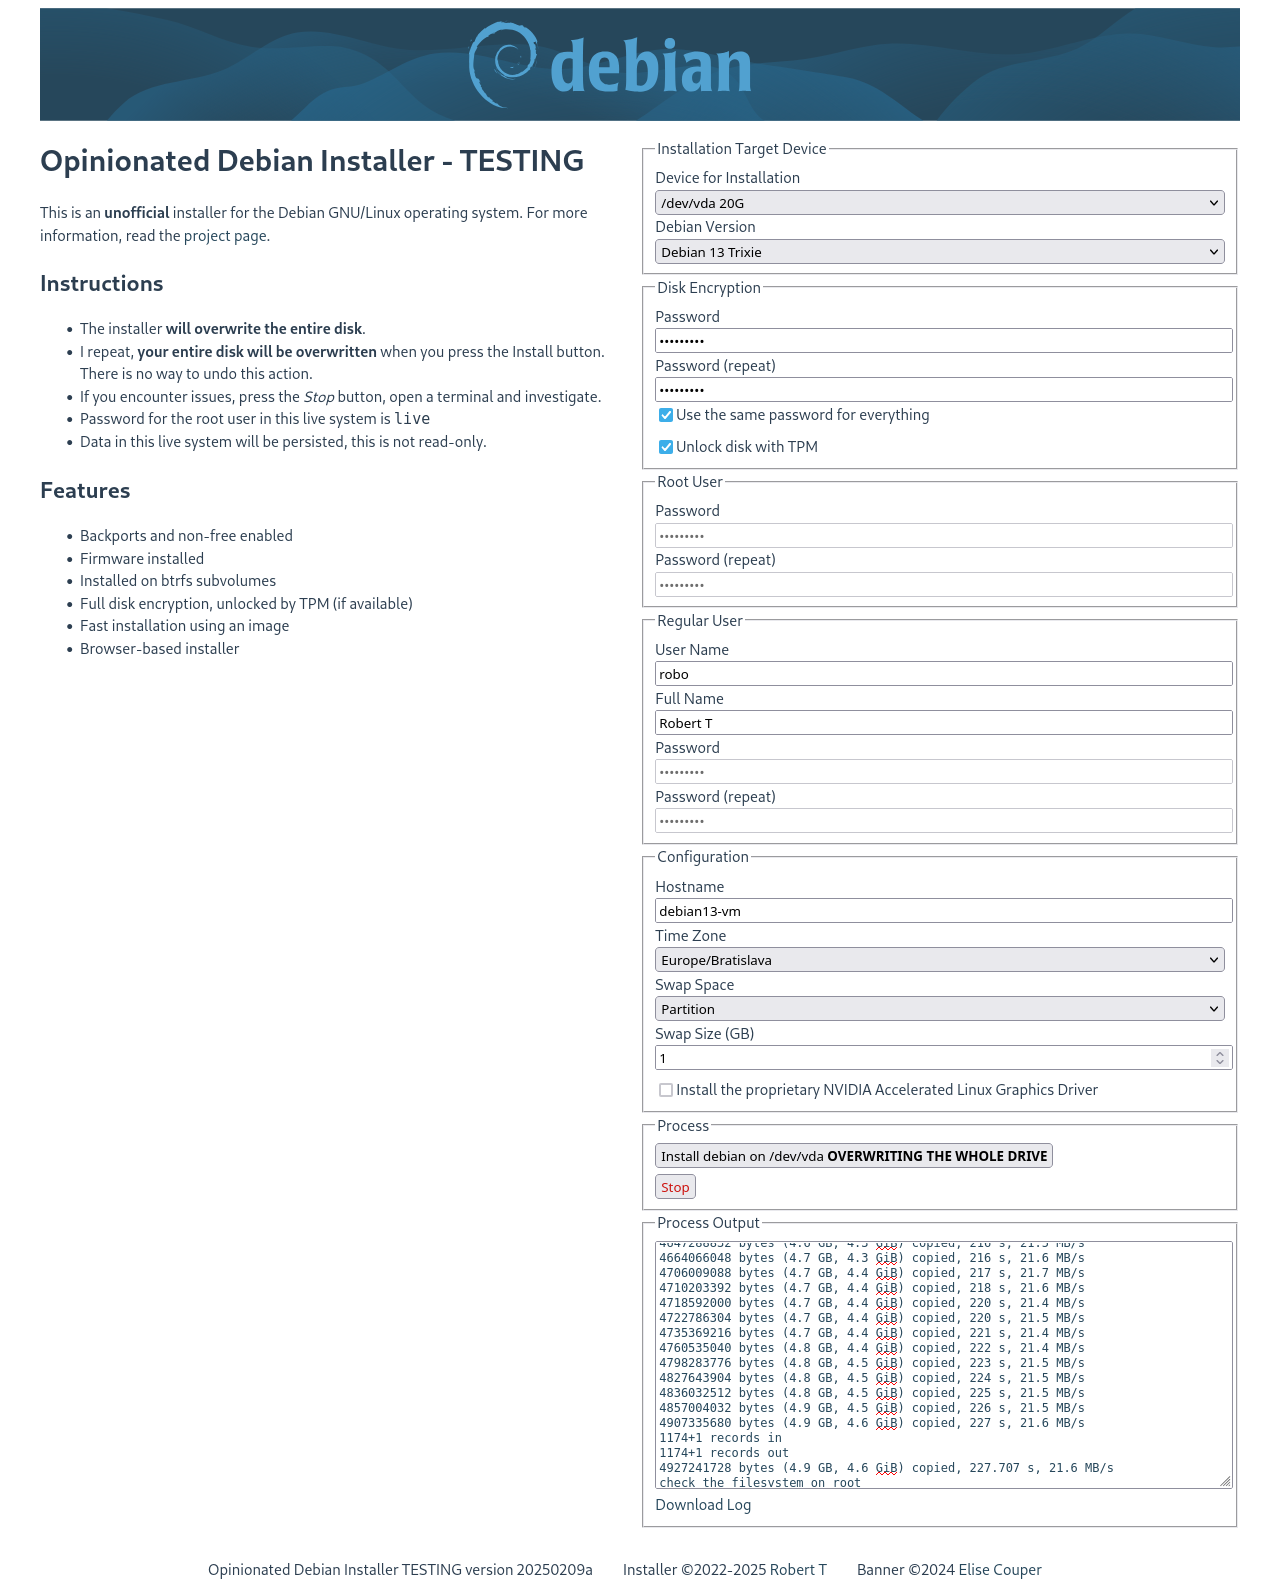
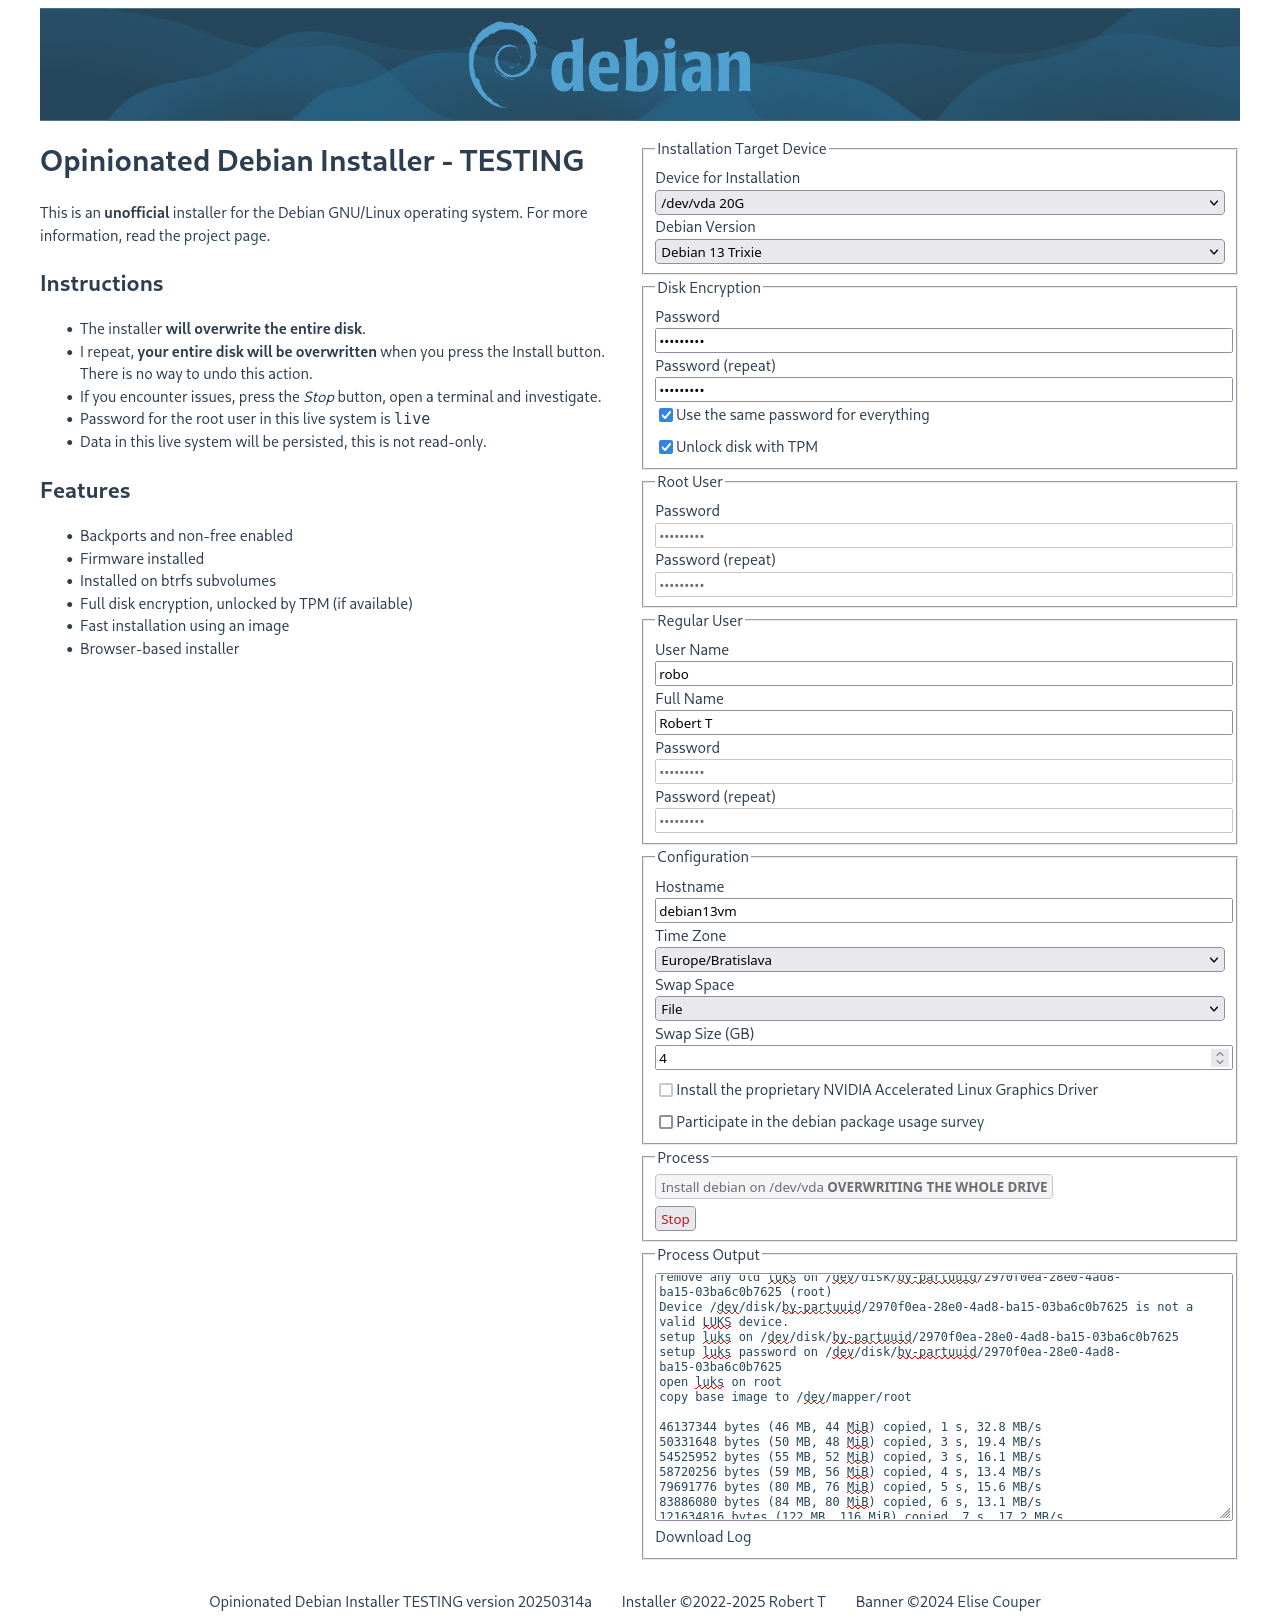
new testing images for kde and gnome

Changed region(s): [[0.1562, 0.0308, 0.9688, 1.0], [0.0312, 0.0616, 0.4688, 0.4314], [0.4688, 0.0308, 0.5, 0.0616]]

diff --git a/frontend/src/App.vue b/frontend/src/App.vue
@@ -364,7 +364,7 @@ export default {
   </main>
 
   <footer>
-    <span>Opinionated Debian Installer TESTING version 20250311a</span>
+    <span>Opinionated Debian Installer TESTING version 20250314a</span>
     <span>Installer &copy;2022-2025 <a href="https://github.com/r0b0/debian-installer">Robert T</a></span>
     <span>Banner &copy;2024 <a href="https://github.com/pccouper/trixie">Elise Couper</a></span>
   </footer>

diff --git a/README.md b/README.md
@@ -19,11 +19,11 @@ Our opinions of what a modern installation of Debian should look like in 2025 ar
 
 ## Downloads
 
-| Desktop environment | Download                                                                                                                                                                                                            | SHA-256 Checksum                                                        |
-|---------------------|---------------------------------------------------------------------------------------------------------------------------------------------------------------------------------------------------------------------|-------------------------------------------------------------------------|
-| KDE Plasma          | [opinionated-debian-installer-trixie-kde-plasma-20250216a.img (5.1GB)](https://objectstorage.eu-frankfurt-1.oraclecloud.com/n/fr2rf1wke5iq/b/public/o/opinionated-debian-installer-trixie-kde-plasma-20250216a.img) | 170e548e 366e9181 185e37cb 87a0c4a5 f4e81a3a 4e654601 a5a0db49 3d39a513 |
-| Gnome               | coming soon                                                                                                                                                                                                         |                                                                         |
-| Server              | coming soon                                                                                                                                                                                                         |                                                                         |
+| Desktop environment | Download                                                                                                                                                               | SHA-256 Checksum                                                        |
+|---------------------|------------------------------------------------------------------------------------------------------------------------------------------------------------------------|-------------------------------------------------------------------------|
+| KDE Plasma          | [opinionated-debian-installer-trixie-kde-plasma-20250314a.img (5.0GB)](https://debian-installer.lamac.cc/opinionated-debian-installer-trixie-kde-plasma-20250314a.img) | 9fa0417c 2770c42e d02c897a c3165920 f485672f a969b6a1 49fe0038 eba3b822 |
+| Gnome               | [opinionated-debian-installer-trixie-gnome-20250314a.img (4.2GB)](https://debian-installer.lamac.cc/opinionated-debian-installer-trixie-gnome-20250314a.img)           | d8c95969 c15d7401 6ece243c 11c724b2 1b139553 ece215bd 6443f6ab 68ae7771 |
+| Server              | coming soon                                                                                                                                                            |                                                                         |
 
 ## Instructions
 
